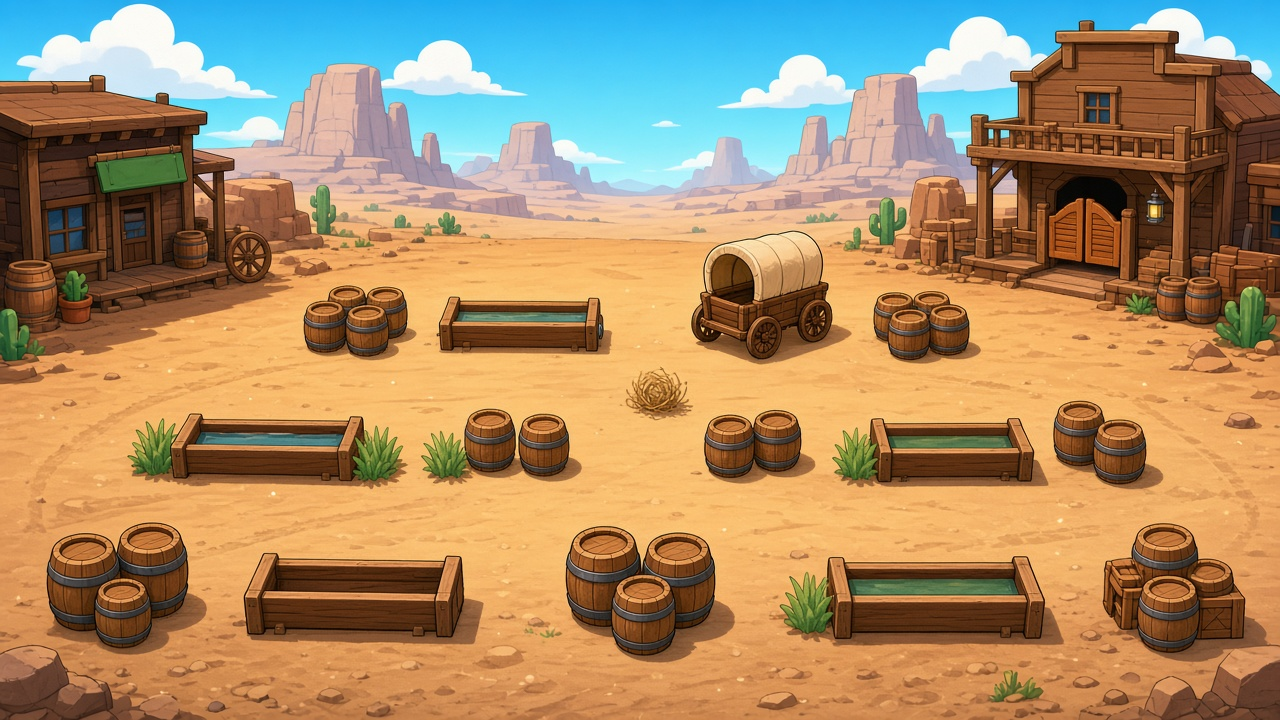
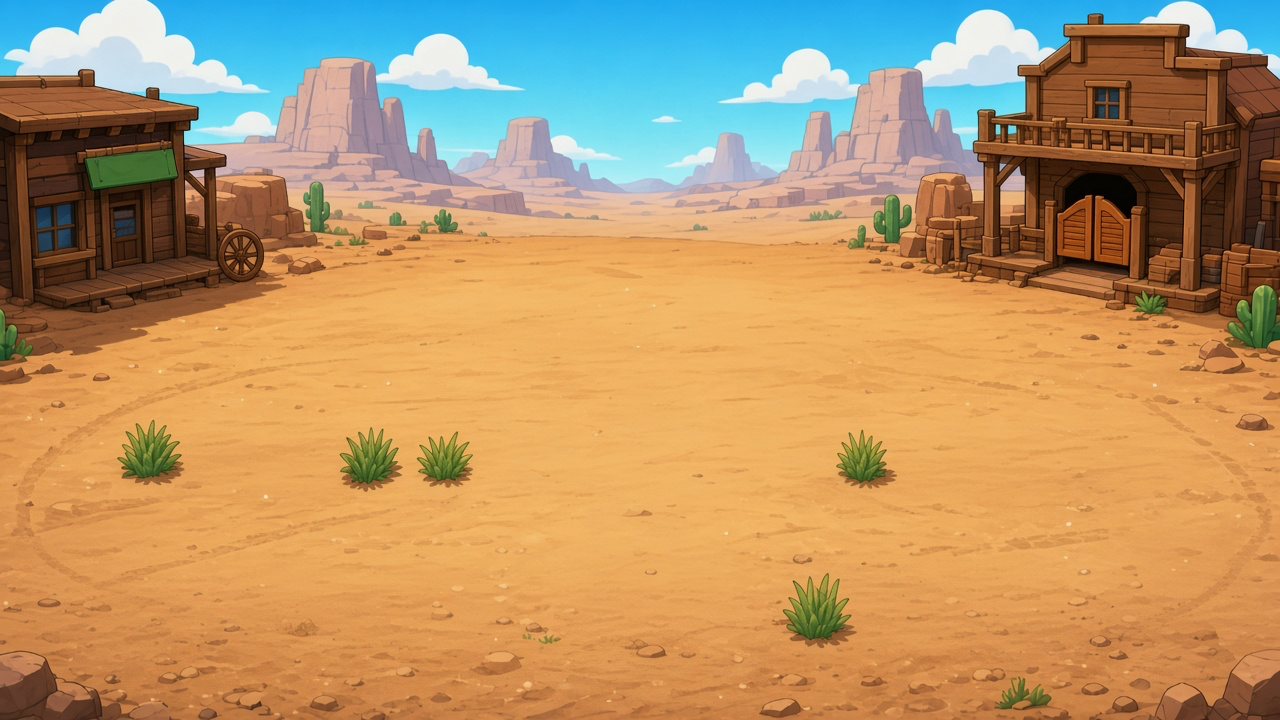
art(stage): swap noon street to empty plate; temp on 1-2/1-3/PvP
Replace stage_visual_dust_1_1_noon with bg_street_dust_noon_empty (1280x720).
1-2 already shared that sprite; 1-3 L0/L2 temporarily points at it until a
sunset empty plate arrives (sunset PNG kept). PvP town_street falls back to
dusty_town_1_1 StageVisual so the empty plate shows instead of procedural bake.
Decorative grass tufts stay art-only (no covers/collision).

diff --git a/Assets/HillNGun/Scripts/Runtime/Battlefield/BattlefieldRenderer.cs b/Assets/HillNGun/Scripts/Runtime/Battlefield/BattlefieldRenderer.cs
@@ -288,7 +288,20 @@ namespace HillNGun.Battlefield
             if (!_pveSearched) { _pve = FindAnyObjectByType<HillNGun.PvE.PvEMatchManager>(); _pveSearched = true; }
             StageVisualData visual = null;
             if (_pve != null && _pve.CurrentStage != null) visual = _pve.CurrentStage.visual;
-            _appliedVisualStageId = _pve != null && _pve.CurrentStage != null ? _pve.CurrentStage.id : null;
+            // Temporary: PvP (and any no-stage town_street) uses the empty noon plate until dedicated plates arrive.
+            if (visual == null)
+            {
+                var am = HillNGun.Core.RuntimeAssetManager.Instance;
+                if (am != null && am.StageDatas != null)
+                {
+                    for (int i = 0; i < am.StageDatas.Length; i++)
+                    {
+                        var s = am.StageDatas[i];
+                        if (s != null && s.id == "dusty_town_1_1" && s.visual != null) { visual = s.visual; break; }
+                    }
+                }
+            }
+            _appliedVisualStageId = _pve != null && _pve.CurrentStage != null ? _pve.CurrentStage.id : (_pve == null ? "pvp_town_street" : null);
 
             if (_parallax == null)
             {

diff --git a/Assets/HillNGun/Scripts/Editor/GameSetup.cs b/Assets/HillNGun/Scripts/Editor/GameSetup.cs
@@ -682,8 +682,9 @@ namespace HillNGun.Editor
             v13.dustMotes = 10; v13.dustMotesLowTier = 3; v13.tumbleweeds = 1; v13.saloonSignSway = true;
             v13.conceptCoverDim = 0.45f;
             v13.lanternPositions = new[] { new Vector2(5f, 10f), new Vector2(19f, 10f) };
-            v13.layers[0].sprite = sunset; v13.layers[0].tint = new Color(1f, 0.8f, 0.6f, 0.5f);
-            v13.layers[2].sprite = sunset; v13.layers[2].tint = Color.white;
+            // Temporary: empty noon plate until sunset empty plate arrives (sunset PNG kept on disk).
+            v13.layers[0].sprite = noon; v13.layers[0].tint = new Color(1f, 0.8f, 0.6f, 0.5f);
+            v13.layers[2].sprite = noon; v13.layers[2].tint = Color.white;
             v13.layers[3].sprite = null;
             EditorUtility.SetDirty(v13);
 
